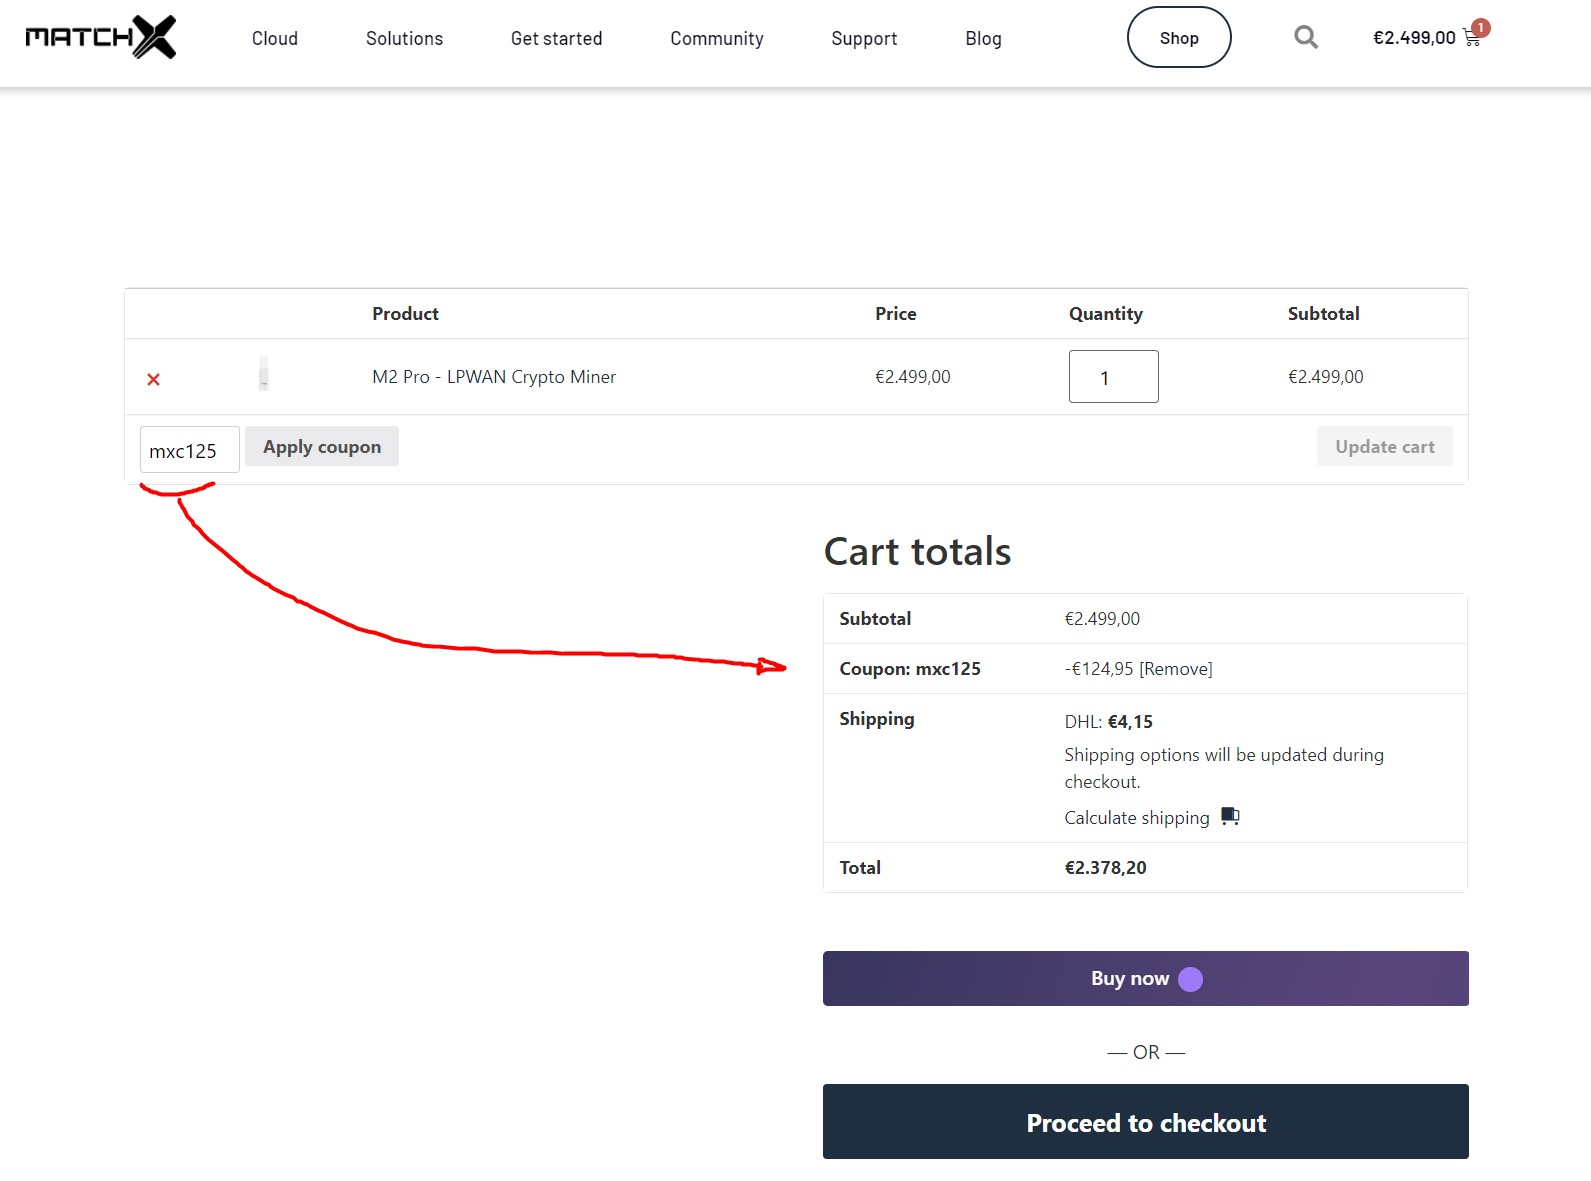
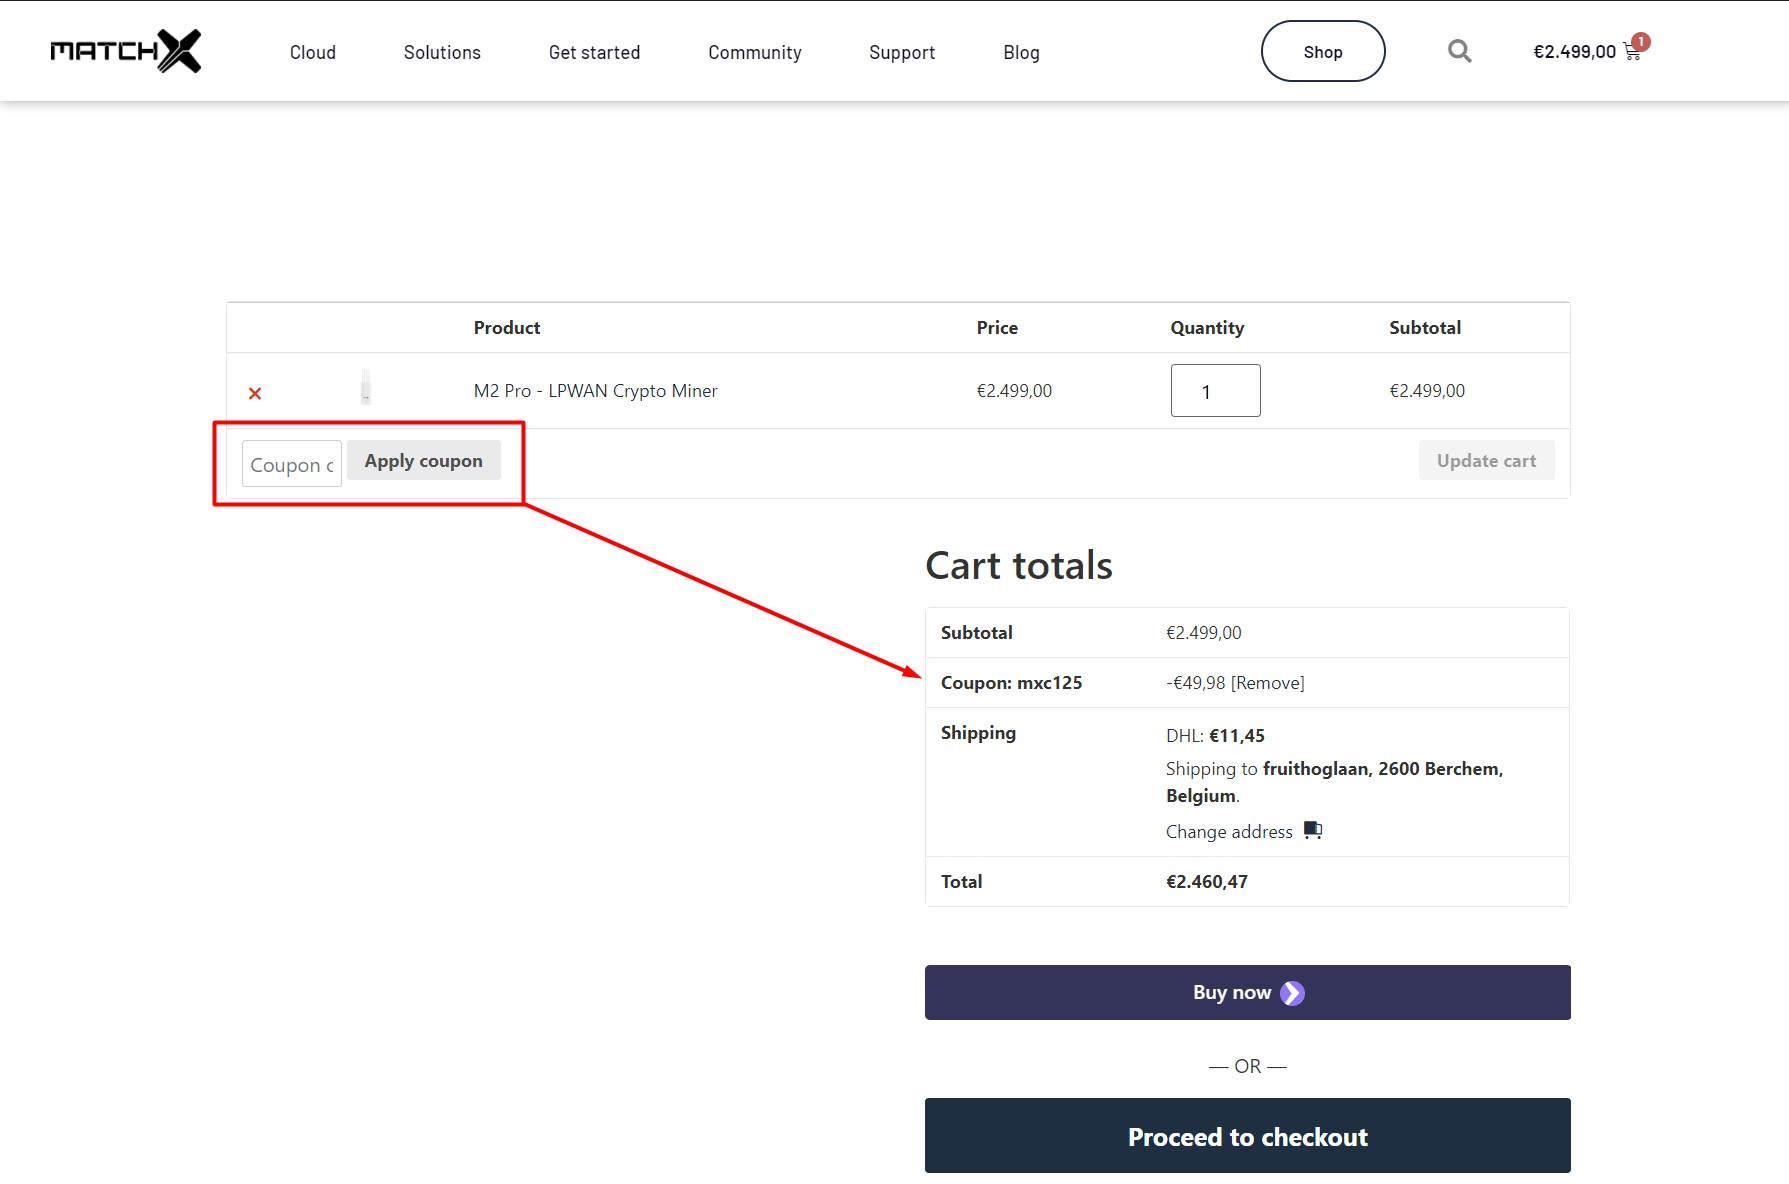
Update code

diff --git a/MDFiles/Handbook/promocodes.md b/MDFiles/Handbook/promocodes.md
@@ -1,4 +1,4 @@
-**Use promocode: 'MXC125' to get 5% off (125euro) every M2**
+**Use promocode: 'MXC125' to get you 50 euros off every M2**
 
 [BUY HERE](https://www.matchx.io/product/m2-pro-lpwan-crypto-miner/)
 
